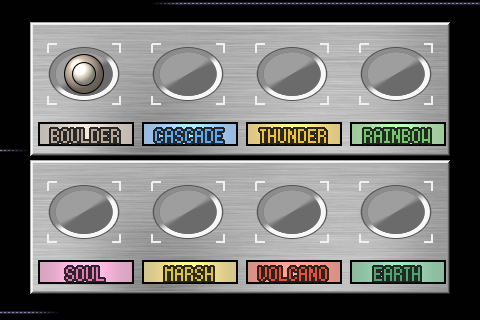
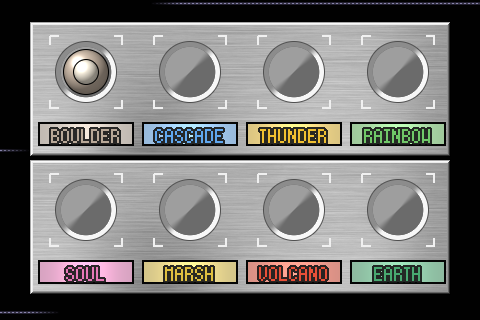
STADIUM restyle mock-ups: the badge board's sockets are circles (they were drawn from the stretched recording)
Claude-Session: https://claude.ai/code/session_017dV1kvUKaABKe4L72BYjoF

diff --git a/tools/stadium/restyle/screens3.py b/tools/stadium/restyle/screens3.py
@@ -305,20 +305,20 @@ def badge_screen():
         for k in range(4):
             i = r * 4 + k
             name, col = badges[i]
-            cx, cy = 84 + k * 104, y + 52
-            sl, xx, yy = c.win(cx - 40, cy - 34, cx + 40, cy + 34)
-            e = np.hypot((xx - cx) / 34.0, (yy - cy) / 26.0)
+            cx, cy = 86 + k * 104, y + 50
+            sl, xx, yy = c.win(cx - 36, cy - 36, cx + 36, cy + 36)
+            e = np.hypot((xx - cx) / 30.0, (yy - cy) / 30.0)
             gy, gx = np.gradient(e)
             lit = smooth(-0.01, 0.01, -gx - gy)
-            ring = aa((e - 1) * 28) * (1 - aa((e - 0.84) * 28))
-            c.mix(sl, aa((e - 1) * 28 - 1), hx(0x505050))
+            ring = aa((e - 1) * 30) * (1 - aa((e - 0.84) * 30))
+            c.mix(sl, aa((e - 1) * 30 - 1), hx(0x505050))
             c.mix(sl, ring, np.repeat((0.55 + 0.42 * (1 - lit))[..., None], 3, -1))
-            c.mix(sl, aa((e - 0.84) * 28), np.repeat((0.42 + 0.20 * lit)[..., None], 3, -1))
+            c.mix(sl, aa((e - 0.84) * 30), np.repeat((0.42 + 0.20 * lit)[..., None], 3, -1))
             if i == 0:      # won: the badge sits in its socket
-                c.sphere(cx, cy, 19, col)
-                c.sphere(cx, cy, 11, 0xe8e0d0)
+                c.sphere(cx, cy, 22, col)
+                c.sphere(cx, cy, 12, 0xe8e0d0)
             for sx, sy in ((-1, -1), (1, -1), (-1, 1), (1, 1)):     # the corner marks
-                bx, by = int(cx + sx * 36), int(cy + sy * 30)
+                bx, by = int(cx + sx * 36), int(cy + sy * 36)
                 c.a[min(by, by - sy * 8):max(by, by - sy * 8) + 1, bx - 1:bx + 1] = 0.94
                 c.a[by - 1:by + 1, min(bx, bx - sx * 8):max(bx, bx - sx * 8) + 1] = 0.94
             x0, x1 = 38 + k * 104, 38 + k * 104 + 96
